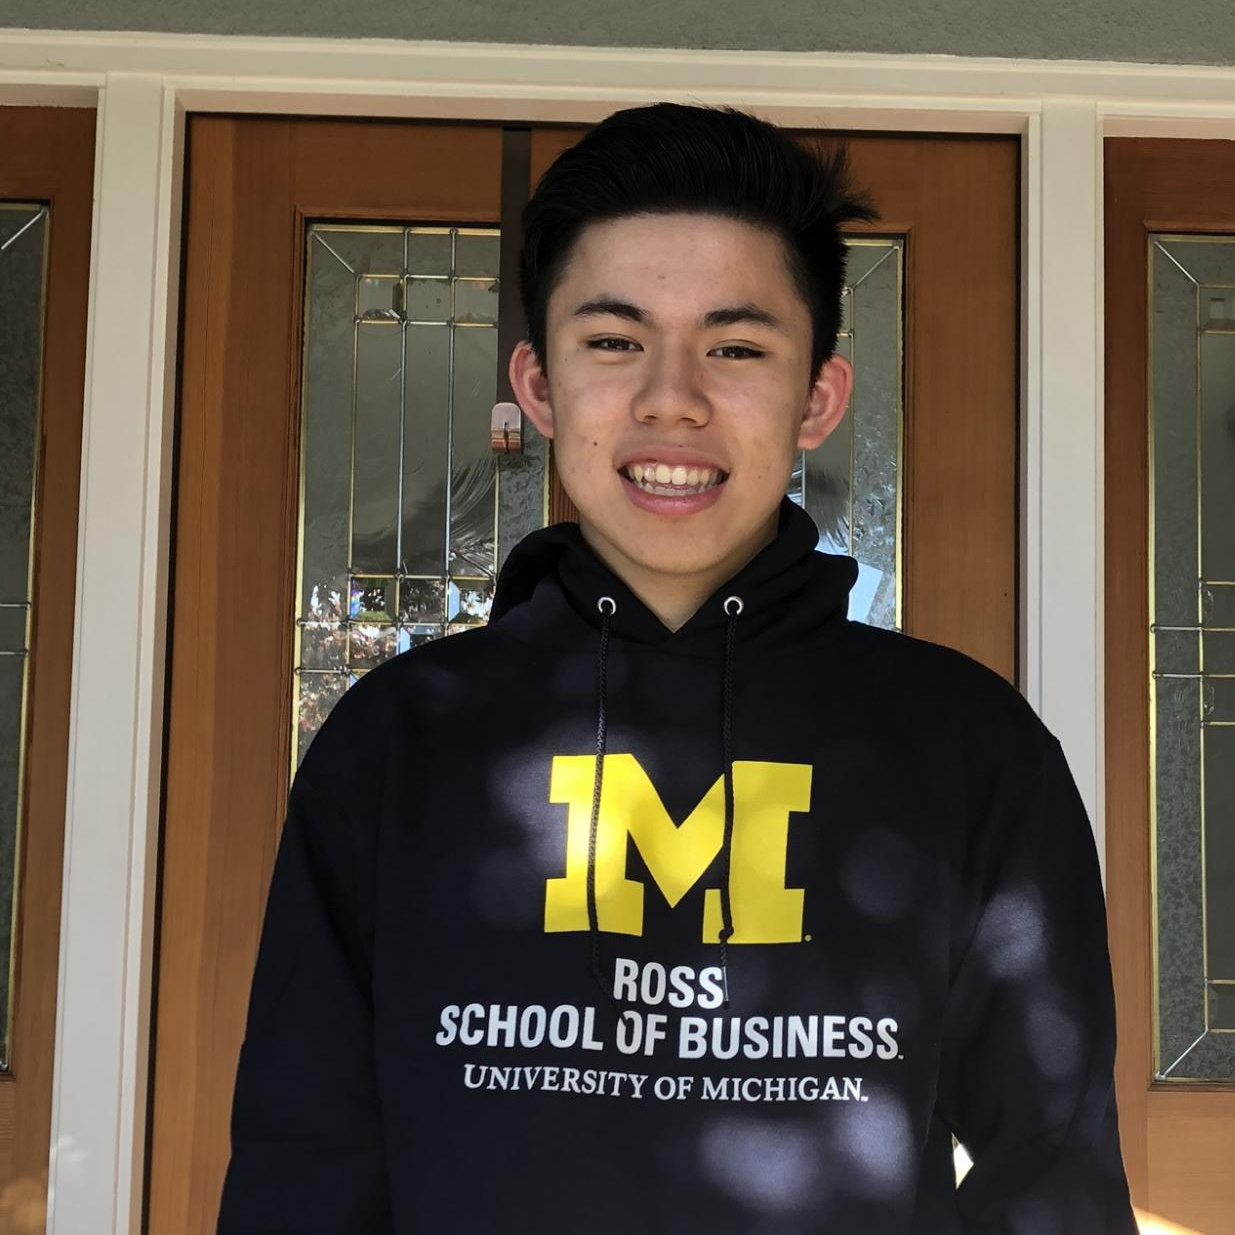
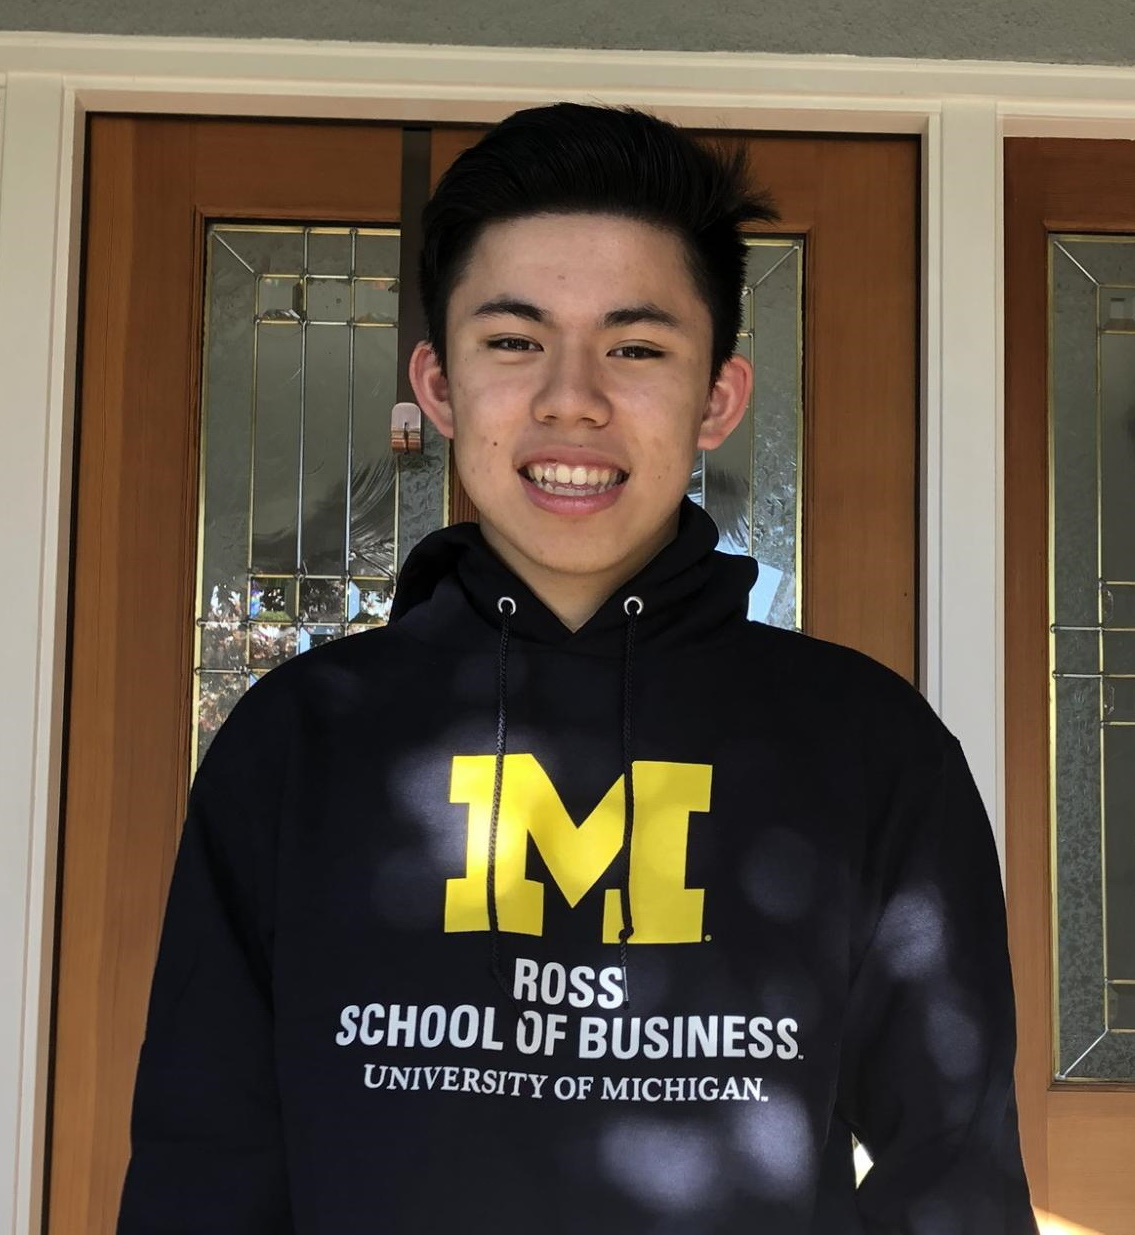
updated bios

diff --git a/index.html b/index.html
@@ -314,6 +314,25 @@
                   </div>
                 </div>
 			  </div>
+
+			  <div class="item">
+                <div class="testimony-wrap py-4">
+                	<!-- <div class="icon d-flex align-items-center justify-content-center"><span class="fa fa-quote-left"></div> -->
+                  <div class="text">
+					<div class="d-flex align-items-center">
+                    	<div class="user-img" style="background-image: url(images/alex.jpg)"></div>
+                    	<div class="pl-3">
+		                    <p class="name">Alexander Choi</p>
+							<span class="position">Cornell University</span>
+							<br>
+							<span class="position">Policy Analysis and Management</span>
+		                  </div>
+	                  </div>
+                    <p class="mb-4">Hello! My name is Alex and I am an incoming freshman at Cornell University in Ithaca, New York. The college admissions process was certainly a new rollercoaster of an experience for me. I applied to a large number of in state and out of state schools, so I am eager to share my resources and help in any way possible.
+					</p>
+                  </div>
+                </div>
+			  </div>
 			  
 			  <div class="item">
                 <div class="testimony-wrap py-4">
@@ -339,40 +358,19 @@
                 	<!-- <div class="icon d-flex align-items-center justify-content-center"><span class="fa fa-quote-left"></div> -->
                   <div class="text">
 					<div class="d-flex align-items-center">
-                    	<div class="user-img" style="background-image: url(images/person_1.jpg)"></div>
-                    	<div class="pl-3">
-		                    <p class="name">Alexander Choi</p>
-							<span class="position">Princeton University</span>
-							<br>
-							<span class="position">Policy Something</span>
-		                  </div>
-	                  </div>
-                    <p class="mb-4">Hi! I did not give Navaneet my bio yet.
-					</p>
-                  </div>
-                </div>
-			  </div>
-
-			  <div class="item">
-                <div class="testimony-wrap py-4">
-                	<!-- <div class="icon d-flex align-items-center justify-content-center"><span class="fa fa-quote-left"></div> -->
-                  <div class="text">
-					<div class="d-flex align-items-center">
-                    	<div class="user-img" style="background-image: url(images/person_4.jpg)"></div>
+                    	<div class="user-img" style="background-image: url(images/navaneet.jpg)"></div>
                     	<div class="pl-3">
 		                    <p class="name">Navaneet Kadaba</p>
 							<span class="position">University of California San Diego</span>
 							<br>
-							<span class="position">Math- Computer Science</span>
+							<span class="position">Math-Computer Science</span>
 		                  </div>
 	                  </div>
-                    <p class="mb-4">Hi! This is a bio.
+                    <p class="mb-4">Hello! My name is Navaneet and I am an incoming freshman at University of California San Diego. For me, the college admissions experience seemed intimidating, but overall it was fine. I applied to a variety of schools, both in state and out of state. I defintely learned a lot while doing my applications, so I would like to share my knowledge and help out however I can. 
 					</p>
                   </div>
                 </div>
 			  </div>
-			  
-			  
 
             </div>
           </div>
